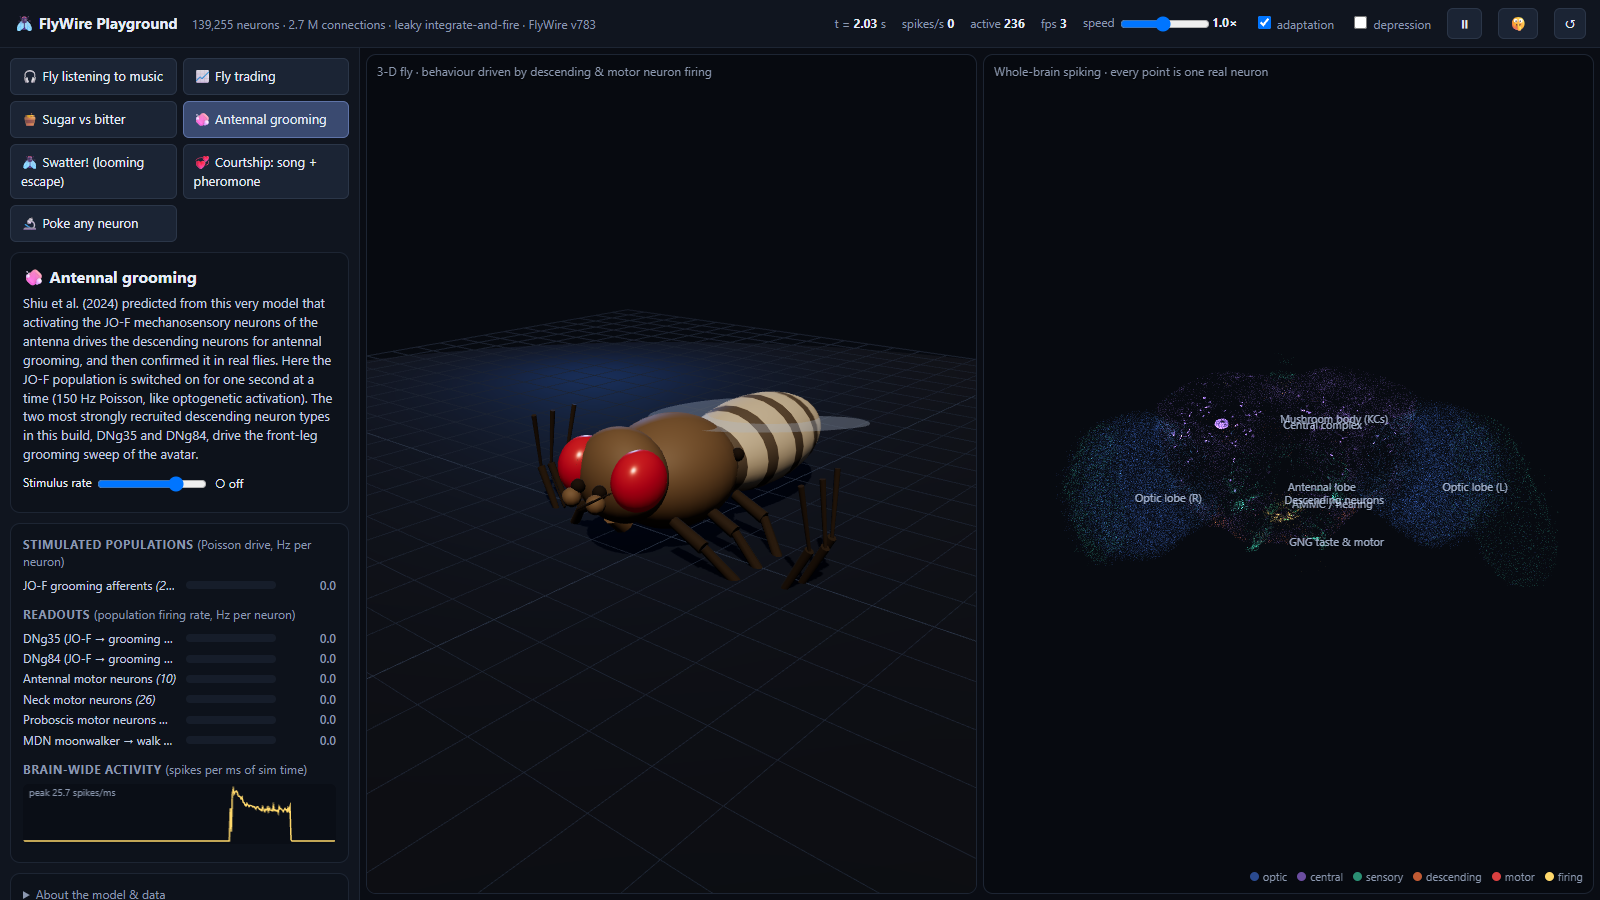
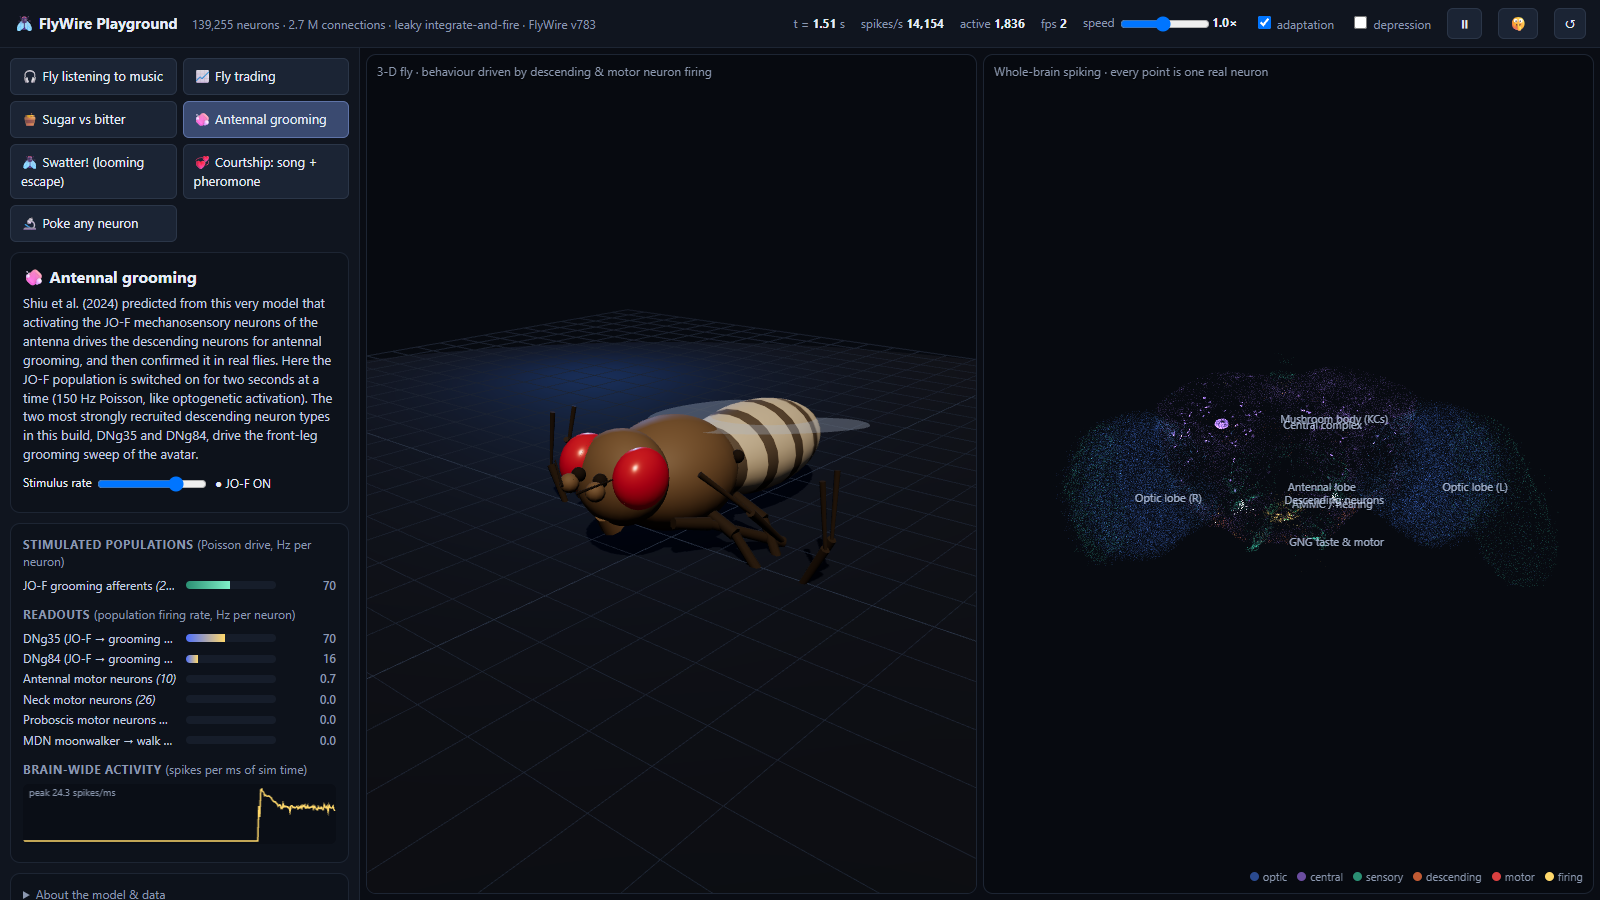
Grooming scenario: 2 s on / 2 s off JO-F cycle; recapture screenshot

diff --git a/web/js/scenarios.js b/web/js/scenarios.js
@@ -197,13 +197,13 @@ export function buildScenarios(ctx) {
     id: 'groom', title: '🧼 Antennal grooming', stageProps: [],
     inputs: ['JO-F'], readouts: ['DNg35', 'DNg84', 'antennal_MN', 'neck_MN', 'proboscis_MN', 'MDN'],
     blurb: `Shiu et al. (2024) predicted from this very model that activating the JO-F mechanosensory neurons of the antenna drives the
-      descending neurons for antennal grooming, and then confirmed it in real flies. Here the JO-F population is switched on for one second
+      descending neurons for antennal grooming, and then confirmed it in real flies. Here the JO-F population is switched on for two seconds
       at a time (150 Hz Poisson, like optogenetic activation). The two most strongly recruited descending neuron types in this build,
       DNg35 and DNg84, drive the front-leg grooming sweep of the avatar.`,
     controls: `<div class="row"><label>Stimulus rate <input type="range" min="0" max="200" step="10" value="150" data-rate></label><span data-state></span></div>`,
     start() { this.t = 0; this.rate = 150; sim.stim('JO-F', G['JO-F'], 0); ui.controls.querySelector('[data-rate]').oninput = (e) => { this.rate = +e.target.value; }; },
     tick(dt) {
-      this.t += dt; const on = (this.t % 3.0) < 1.2;
+      this.t += dt; const on = (this.t % 4.0) < 2.0;
       sim.rate('JO-F', on ? this.rate : 0);
       ui.controls.querySelector('[data-state]').textContent = on ? '● JO-F ON' : '○ off';
       driveFly(fly, sim.rates); return 0;
